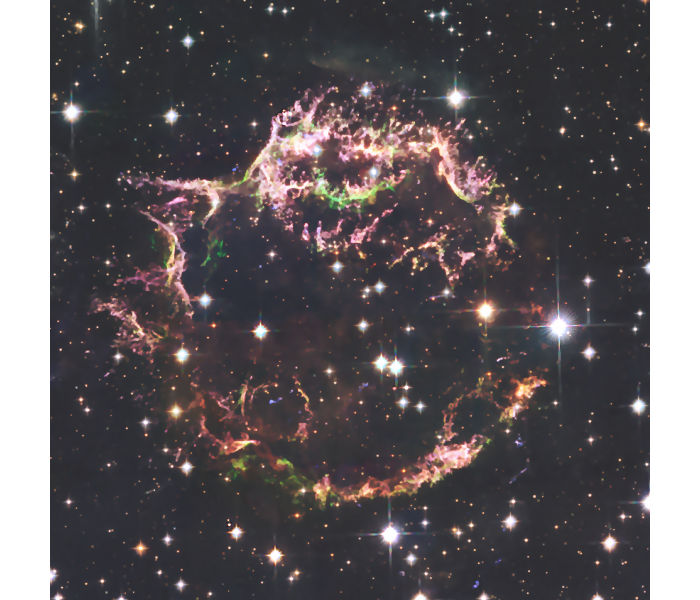
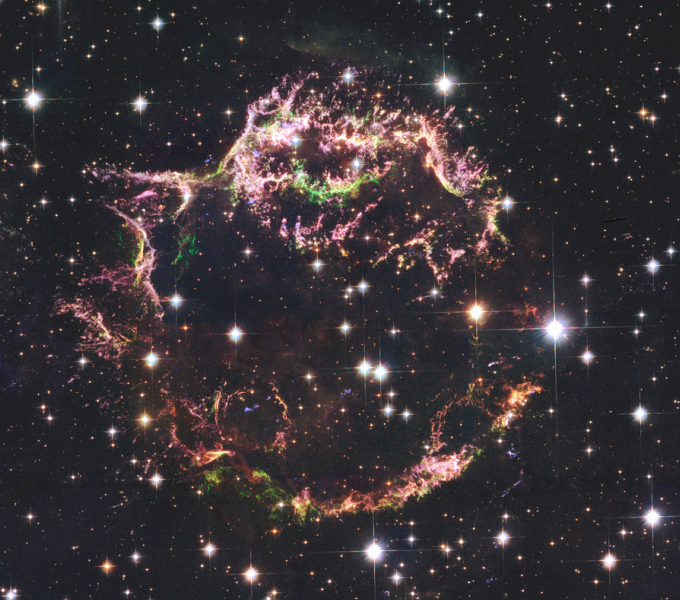
Added parallax scrolling for the background

diff --git a/js/game.js b/js/game.js
@@ -2,6 +2,7 @@
 	//If these change, make sure to update the CSS as well
 	WIDTH: 600,
 	HEIGHT: 600,
+	PARALLAX_AMOUNT: 30,
 
 	debug_drawBorder: function() {
 		View.ctx.beginPath();
@@ -39,11 +40,10 @@ var View = {
 		this.canvas.width = w;
 		this.canvas.height = h;
 		this.canvas.id = "game-canvas";
-		document.getElementById("game-wrapper").appendChild(this.canvas);
 
+		document.getElementById("game-wrapper").appendChild(this.canvas);
 	},
 	clear: function(color) {
-
 		// Store the current transformation matrix
 		this.ctx.save();
 
@@ -70,6 +70,13 @@ var View = {
 	}, 
 	drawLives: function(lives) {
 		this.ctx.fillText("LIVES: " + lives, 500, 50);
+	},
+	adjustParallax: function() {
+		var relx = Game.player.x - World.CENTER,
+			offset = -(relx / ((World.CENTER - Game.player.bounds) / World.PARALLAX_AMOUNT));
+
+		offset -= World.PARALLAX_AMOUNT;
+		document.getElementById("game-wrapper").style.backgroundPosition = offset + "px 0px";
 	}
 };
 
@@ -98,15 +105,18 @@ var Game = {
 		Menu.DisplayMenu();
 	},
 	startLevel: function() {
-		
 		this.isRunning = true;
 		
 		this.bunkers = [];
 		
-		this.player = new Player(50, 500);
+		this.player = new Player(0, 500);
 		this.bullet = new Bullet();
 		this.player.bullet = this.bullet;
 		this.bullet.dead = true;
+
+		//Center the player
+		World.CENTER = (World.WIDTH / 2) - (this.player.width / 2);
+		this.player.x = World.CENTER;
 				
 		var bunker = null;
 		for(var x = 0; x < 4; x++) {
@@ -211,6 +221,7 @@ var Game = {
 		
 		//World.debug_drawBorder();
 		View.drawInfo(this.points, this.lives);
+		View.adjustParallax();
 	}
 
 };

diff --git a/app.css b/app.css
@@ -42,7 +42,7 @@ canvas {
 	height: 600px;
 	border: 1px solid #444;
 	background-image: url(images/Background.png);
-	background-position: -50px 0px;
+	background-position: -30px 0px;
 	z-index: 2;
 }
 
